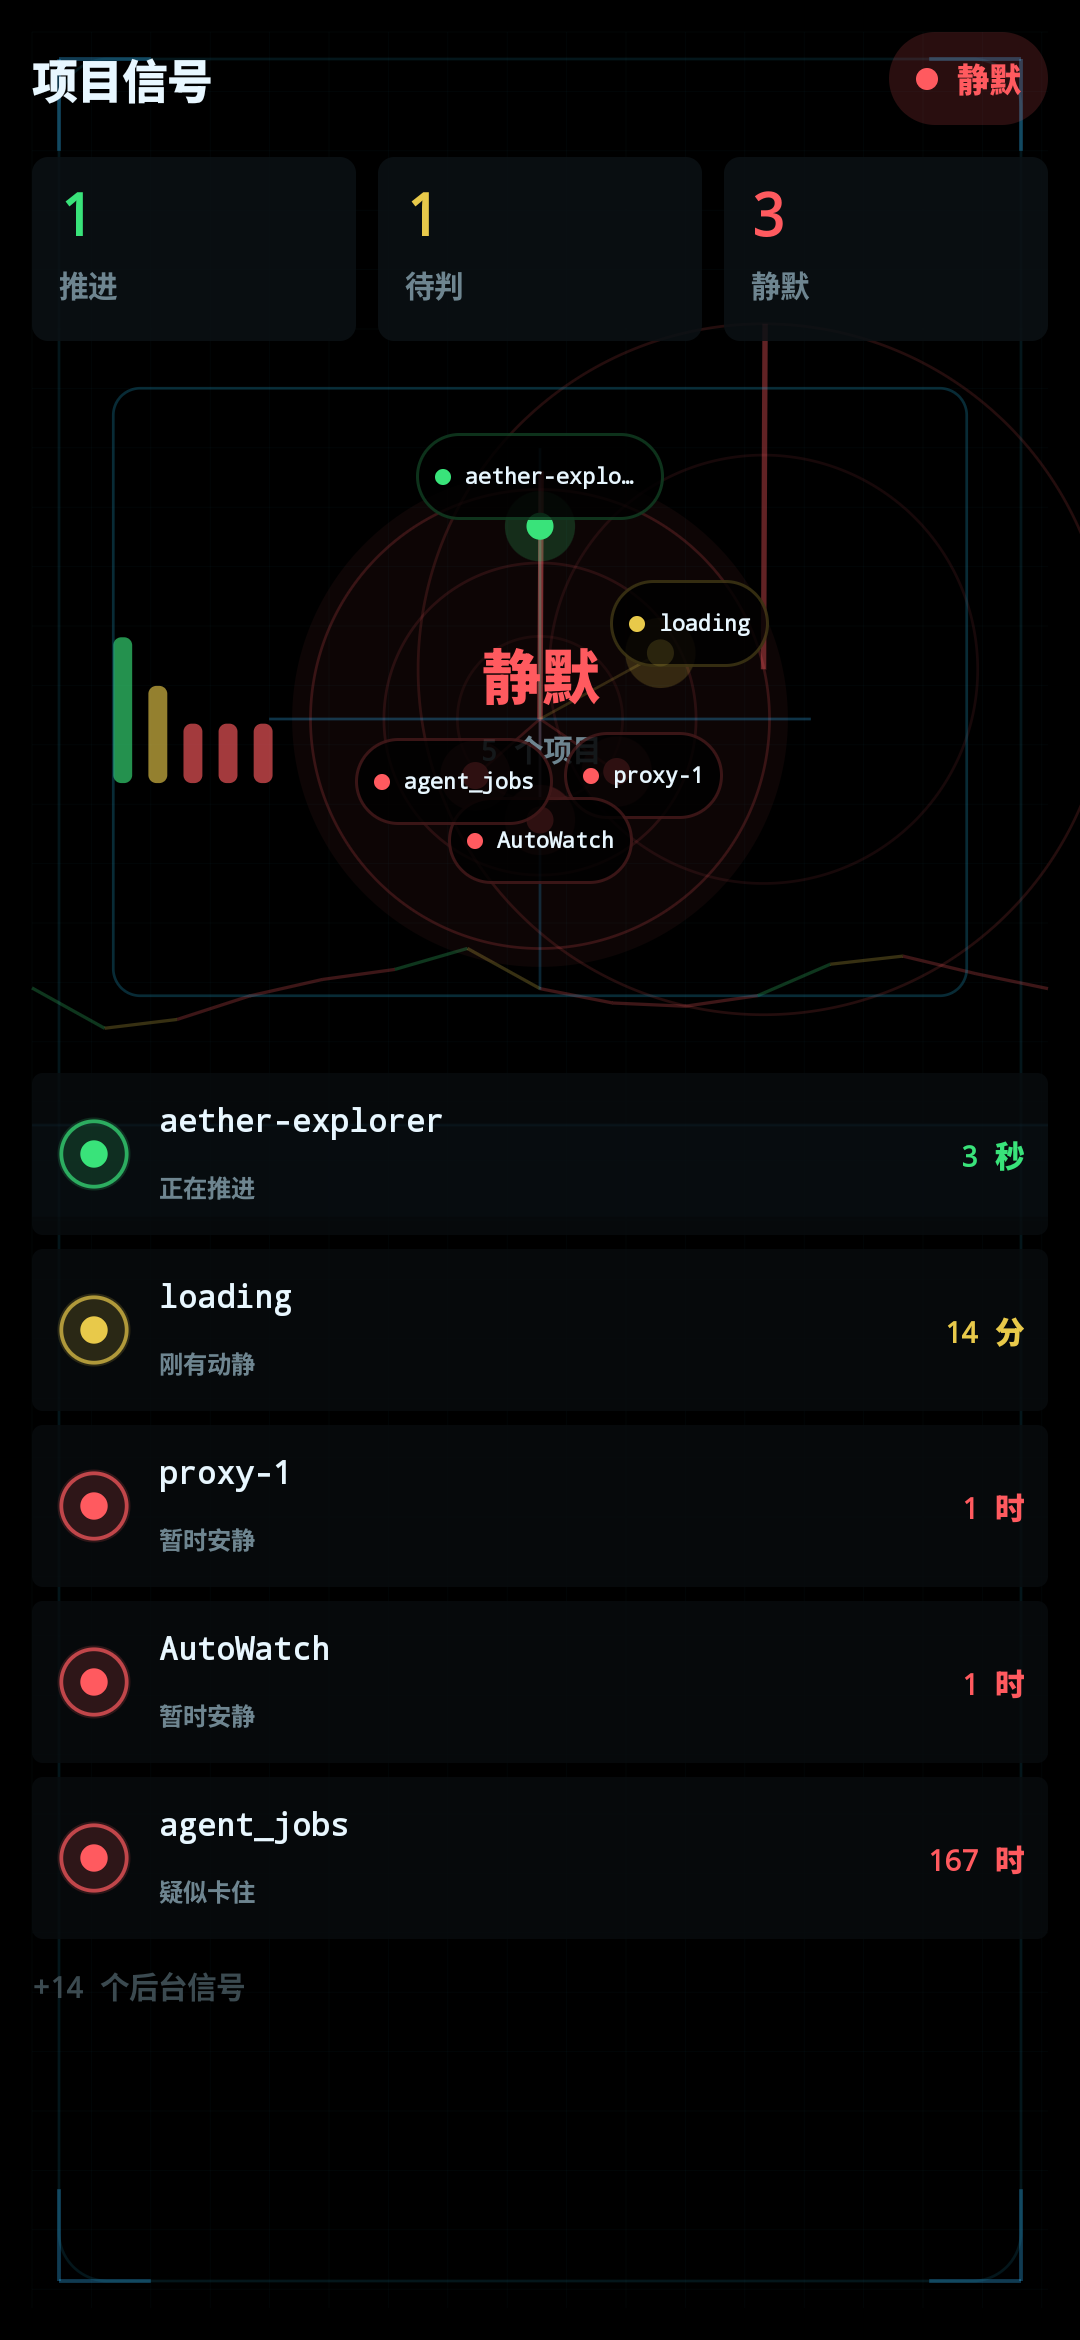
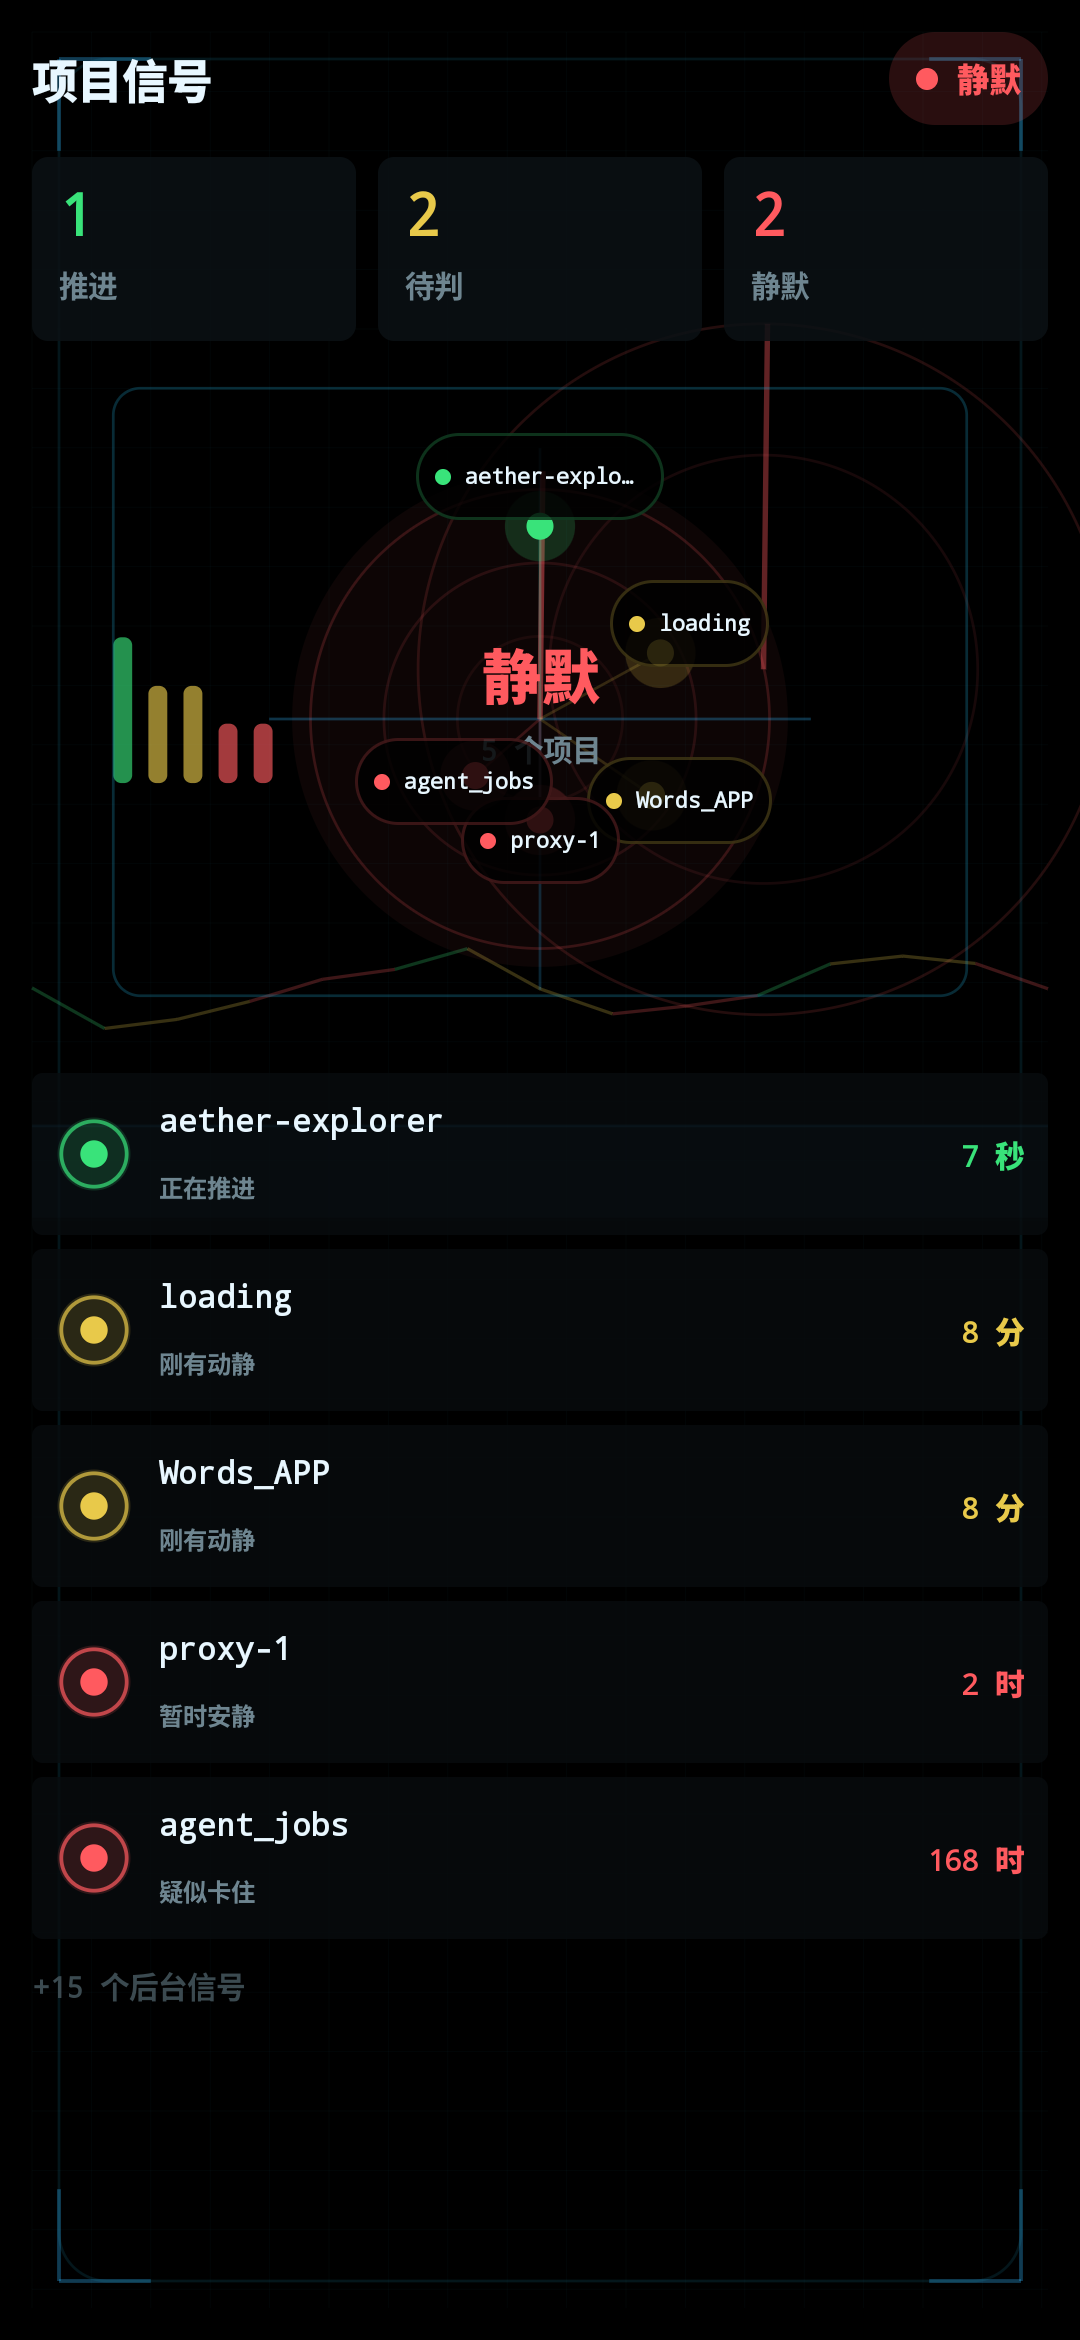
docs: 更新三屏真机截图

diff --git a/docs/CHANGELOG.md b/docs/CHANGELOG.md
@@ -1,5 +1,9 @@
 # 文档变更记录
 
+## 2026-06-01
+
+- 重新截取三屏真机预览图，确认第一屏和第三屏包含项目状态，第二屏包含动态气泡。
+
 ## 2026-05-31
 
 - 修复 payload 裁剪策略，避免第二屏动态挤掉全部项目行，恢复第一屏与第三屏项目刷新。
